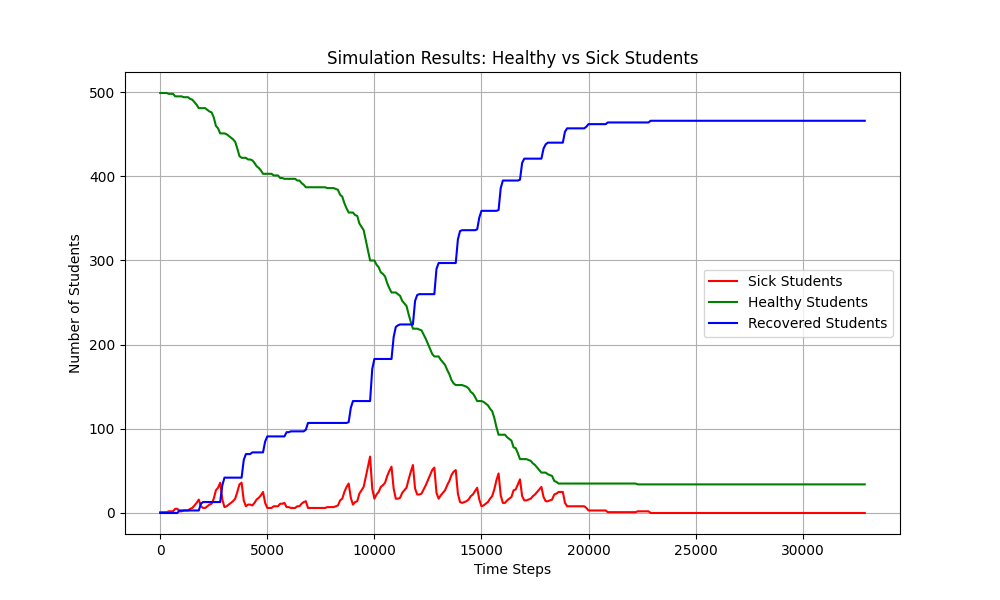
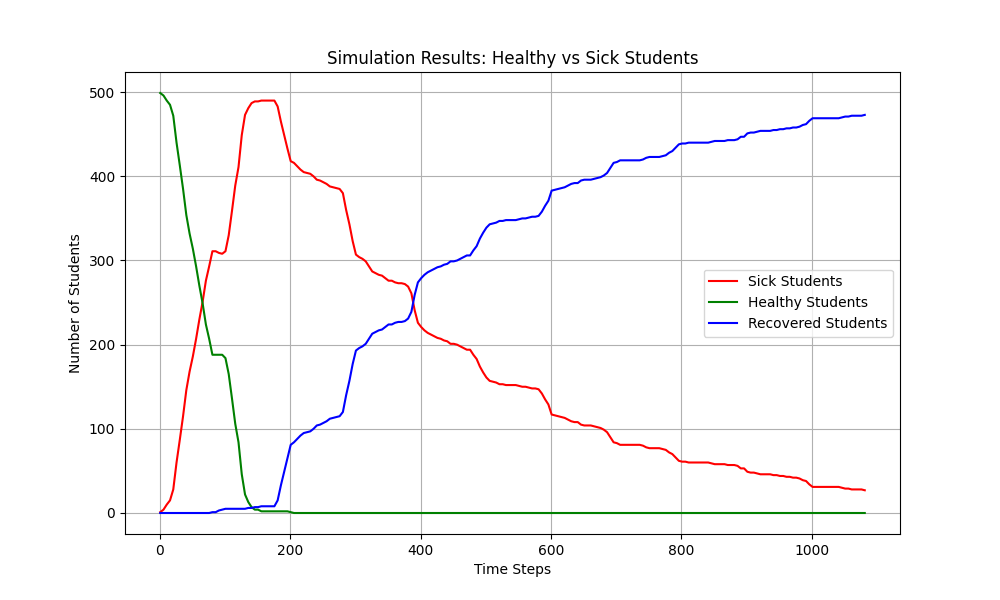
Updated disease spread algorithm.
Once infected (state=0.5) the infection increases by a factor alpha each time step. Also reduced the scale (factor of 10) of time steps during the day, and visualization step, for simulations.

diff --git a/Buildings.py b/Buildings.py
@@ -48,8 +48,9 @@ class Building:
         # Assign ID based on the name
         self.id = building_id_map.get(name, -1)  # Default to -1 if name is not found
 
-        self.infection_rate = 0.075 #  7.5%
-        self.recovery_rate = 0.01# 1% recovery rate. Use infectious state "2" as recovered
+        self.infection_rate = 0.01 #  1%
+        self.recovery_rate = 0.01# 1 % recovery rate. Use infectious state "2" as recovered
+        self.alpha = 0.01
 
 
     def enlist(self, student):
@@ -91,6 +92,14 @@ class Building:
             if student_state < 0.5 or student_state == 2:
                 continue
 
+            ## Make the sick student sicker over time
+            if 0.5 <= student_state and student_state < 1:
+                incremental_infection = student_state*(1+self.alpha)
+                ## Can only be 100% infected.
+                if(incremental_infection >=1):
+                    incremental_infection = 1
+                Students.set_student_infectiou_state(student, incremental_infection)
+
             neighbours = getNeighbours(i,self.students,(n_rows,n_columns))
            
             ## Infect neighbours, currently either infected or healthy. 
@@ -99,13 +108,8 @@ class Building:
                 state_neighbour = Students.get_student_infectiou_state(neighbour)
                 if np.random.rand() < self.infection_rate and state_neighbour != 2:
                     if state_neighbour == 0:
-                        Students.set_student_infectiou_state(neighbour, self.infection_rate)
-                    elif state_neighbour < 1:
-                        incremental_infection = state_neighbour*(1+self.infection_rate)
-                        ## Can only be 100% infected.
-                        if(incremental_infection >= 1):
-                            incremental_infection = 1
-                        Students.set_student_infectiou_state(neighbour, incremental_infection)
+                        Students.set_student_infectiou_state(neighbour, 0.5)
+
                 
         return
     

diff --git a/SimulationController.py b/SimulationController.py
@@ -4,12 +4,12 @@ import numpy as np
 
 # all key timestep variables
 START_OF_A_DAY = 0
-END_OF_FIRST_CLASS = 100
-END_OF_SECOND_CLASS = 200
-END_OF_LUNCH = 400
-END_OF_THIRD_CLASS = 600
-END_OF_FOURTH_CLASS = 700
-END_OF_A_DAY = 800
+END_OF_FIRST_CLASS = 10
+END_OF_SECOND_CLASS = 20
+END_OF_LUNCH = 40
+END_OF_THIRD_CLASS = 60
+END_OF_FOURTH_CLASS = 70
+END_OF_A_DAY = 80
 
 def simulation(time_step_in_day,buildings,building_map):
     

diff --git a/main.py b/main.py
@@ -74,8 +74,8 @@ for i in range(Students.total_students):
 # the whole simulation
 time_step = 0
 max_time_step = 10000000
-time_step_per_day = 1000
-visualization_step = 100
+time_step_per_day = 100
+visualization_step = 5
 #initialize data arrays
 running = True
 while time_step < max_time_step and running:
